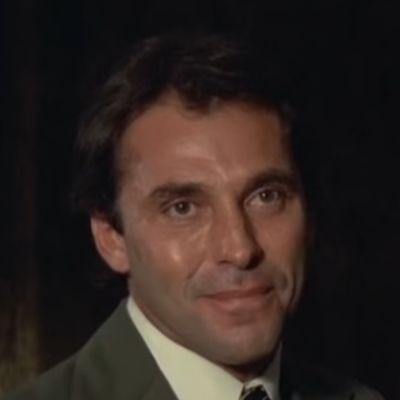
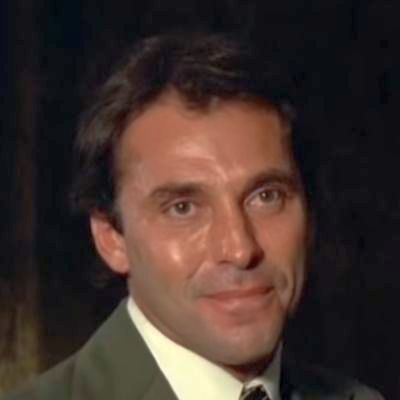
colorcorrect

diff --git a/nincs2.html b/nincs2.html
@@ -17,7 +17,7 @@ html, body {
   width: -webkit-fill-available;
 }
 h2 { font-size:5vmin; } 
-.xl { font-size:10vmin }
+.xl { font-size:10vmin; font-weight: bolder; }
 .big { font-size:5vmin }
 .medium { font-size:4vmin }
 .small { font-size:3vmin }
@@ -232,6 +232,7 @@ img.back { z-index: 1; }
 
     function playClosing() {
         console.log(`closing`)
+        document.getElementById('tabla').style.filter = 'invert(25%)';
         for (var i = 0; i < gameData.targetList.length; i++) {
             var pic = document.getElementById(gameData.targetList[i].id);
             var pos = getPosPxOfPospc(getEndingPosPcOf(gameData.targetList[i].posid));
@@ -411,6 +412,7 @@ img.back { z-index: 1; }
                 document.documentElement.msrequestFullscreen();
             }
             gameUI.fullscr = 1;
+            document.getElementById("fullscr").src = "images/fullscr2b.png";
         } else {
             if ( document.documentElement.exitFullscreen) {
                 document.documentElement.exitFullscreen();
@@ -426,6 +428,7 @@ img.back { z-index: 1; }
                 alert('exit fullscreen, doesnt work');
             }
             gameUI.fullscr = 0;    
+            document.getElementById("fullscr").src = "images/fullscr2a.png";
         }
         myResize();
         //setTimeout(function(){window.scrollTo(0, 0); }, 5);
@@ -487,7 +490,7 @@ display:inline-block;
     <div id="toptable" style="position:absolute;width:100%;height:100%;padding:0;">
         <img id="tabla" class="back" src="images/nincs2header_46.jpg" style="position:absolute;float:left;left:0;padding:0;text-align:center;vertical-align:top;max-height:99vh;max-width:99vw;z-index:-1;object-fit:contain;object-position:center center;">
         <div style="position:relative;float:right;width:90%;text-align:right;vertical-align:top;">
-            <p style="text-align:right"><img src="images/volume.png" style="max-height:4vmin" onclick="toggleAudio()"><img src="images/fullscr.png" style="max-height:5vmin" onclick="toggleFullScr()"></p>
+            <p id='volume' style="text-align:right"><img src="images/volume2a.png" style="max-height:4vmin" onclick="toggleAudio()"> <img id='fullscr' src="images/fullscr2a.png" style="max-height:5vmin" onclick="toggleFullScr()"></p>
         </div>
         <p id="bigtext" class="xl" style="position:fixed;float:left;left:10%;top:50%;width:80%;padding:0;text-align:center;font-stretch:semi-condensed;">Keresd meg a párját!</p>
         <p id="status" class="medium" style="position:fixed;float:left;left:0%;bottom:0%;width:50%;padding:0;text-align:left;font-stretch:semi-condensed;">status</p>
